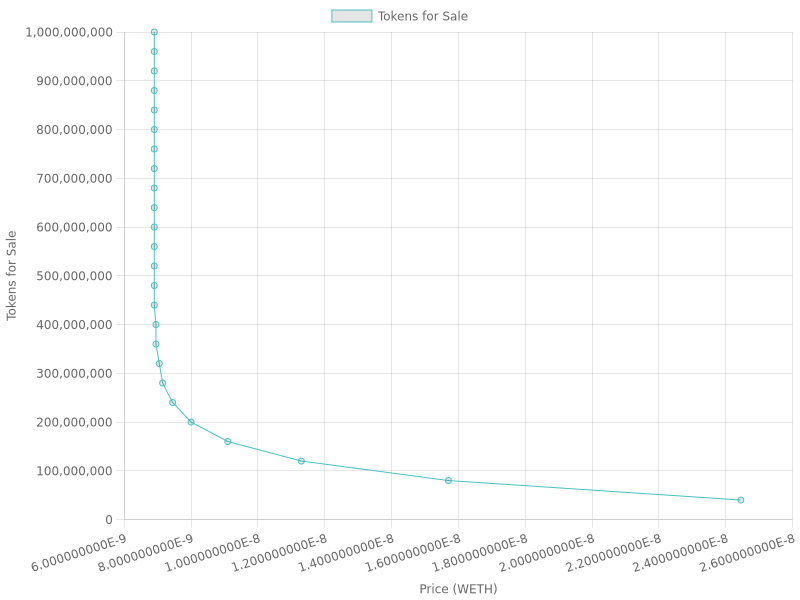
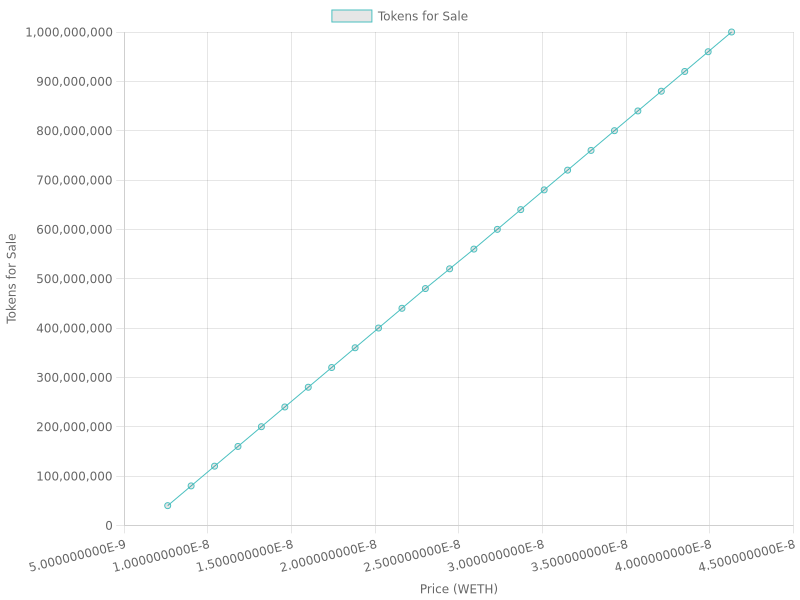
switching to new branch

diff --git a/generate-recurring-orders/src/generateOrders.ts b/generate-recurring-orders/src/generateOrders.ts
@@ -1,65 +1,59 @@
 import * as fs from 'fs';
+import * as path from 'path';
 
-interface OrderRange {
-  bottomRange: {
-    low: number;
-    high: number;
-  };
-  topRange: {
-    low: number;
-    high: number;
-  };
+// Define types for orders
+interface Order {
+  bottomRangeLow: number;
+  bottomRangeHigh: number;
+  topRangeLow: number;
+  topRangeHigh: number;
   tokens: number;
 }
 
-function generateRecurringOrders(startPrice: number, endPrice: number, totalTokens: number, numOrders: number): OrderRange[] {
-  const orders: OrderRange[] = [];
+// Improved function to generate recurring orders
+function generateRecurringOrders(startPrice: number, endPrice: number, totalTokens: number, numOrders: number): Order[] {
+  const orders: Order[] = [];
   const tokensPerOrder = totalTokens / numOrders;
 
   function createOrderRanges(low: number, high: number, remainingOrders: number): void {
     if (remainingOrders === 0) return;
 
-    const mid = (low + high) / 2;
+    const mid = (high + low) / 2;
 
-    // Create the order for the current range
     orders.push({
-      bottomRange: {
-        low: parseFloat(low.toFixed(10)),
-        high: parseFloat(mid.toFixed(10)),
-      },
-      topRange: {
-        low: parseFloat(mid.toFixed(10)),
-        high: parseFloat(high.toFixed(10)),
-      },
+      bottomRangeLow: parseFloat(low.toFixed(10)),
+      bottomRangeHigh: parseFloat(mid.toFixed(10)),
+      topRangeLow: parseFloat(mid.toFixed(10)),
+      topRangeHigh: parseFloat(high.toFixed(10)),
       tokens: tokensPerOrder,
     });
 
-    // Recursively create further orders if there are orders left
     createOrderRanges(low, mid, remainingOrders - 1);
     createOrderRanges(mid, high, remainingOrders - 1);
   }
 
   createOrderRanges(startPrice, endPrice, numOrders);
 
-  // Ensure we only return the requested number of orders
   return orders.slice(0, numOrders);
 }
 
 // Example usage
-const startPrice = 0.0000000069;
-const endPrice = 0.000000042;
+const startPrice = 0.0000000042;
+  const endPrice = 0.000000069;
 const totalTokens = 1000000000; // 1 billion tokens
-const numOrders = 25; // Reduced number of orders
+const numOrders = 25;
 const orders = generateRecurringOrders(startPrice, endPrice, totalTokens, numOrders);
 
 // Generate CSV content
 const csvContent = orders.map(order => {
-  return `${order.bottomRange.low.toFixed(10)},${order.bottomRange.high.toFixed(10)},${order.topRange.low.toFixed(10)},${order.topRange.high.toFixed(10)},${order.tokens}`;
+  return `${order.bottomRangeLow.toFixed(10)},${order.bottomRangeHigh.toFixed(10)},${order.topRangeLow.toFixed(10)},${order.topRangeHigh.toFixed(10)},${order.tokens}`;
 }).join('\n');
 
 const header = "Bottom Range Low,Bottom Range High,Top Range Low,Top Range High,Tokens\n";
 const csv = header + csvContent;
 
-fs.writeFileSync('src/orders.csv', csv);
+const outputPath = path.join(__dirname, 'orders.csv');
+fs.writeFileSync(outputPath, csv);
 
-console.log('Orders CSV file has been generated.');
+console.log(`Orders CSV file has been generated at ${outputPath}`);
+

diff --git a/generate-recurring-orders/src/generateDepthChart.ts b/generate-recurring-orders/src/generateDepthChart.ts
@@ -4,15 +4,6 @@ import { ChartJSNodeCanvas } from 'chartjs-node-canvas';
 import { ChartConfiguration } from 'chart.js';
 import readline from 'readline';
 
-// Define types for orders
-interface Order {
-  bottomRangeLow: number;
-  bottomRangeHigh: number;
-  topRangeLow: number;
-  topRangeHigh: number;
-  tokens: number;
-}
-
 // Prepare data for the depth chart
 const tmpFilePath = path.join(__dirname, 'tmp_data.jsonl'); // Temporary file to store intermediate results
 const tmpFileStream = fs.createWriteStream(tmpFilePath);
@@ -31,15 +22,8 @@ rl.on('line', (line) => {
     return;
   }
   const values = line.split(',').map(value => parseFloat(value));
-  const order: Order = {
-    bottomRangeLow: values[0],
-    bottomRangeHigh: values[1],
-    topRangeLow: values[2],
-    topRangeHigh: values[3],
-    tokens: values[4]
-  };
-  const midPrice = (order.bottomRangeLow + order.topRangeHigh) / 2;
-  cumulativeTokens += order.tokens;
+  const midPrice = (values[0] + values[3]) / 2;
+  cumulativeTokens += values[4];
   tmpFileStream.write(JSON.stringify({ price: midPrice, tokens: cumulativeTokens }) + '\n');
 });
 
@@ -100,9 +84,13 @@ rl.on('close', async () => {
     };
 
     try {
+      // Generate a unique filename using a timestamp
+      const timestamp = new Date().toISOString().replace(/[:.]/g, '-');
+      const imagePath = path.join(__dirname, `depth_chart_${timestamp}.png`);
+
       const imageBuffer = await chartJSNodeCanvas.renderToBuffer(configuration);
-      fs.writeFileSync(path.join(__dirname, 'depth_chart.png'), imageBuffer);
-      console.log('Depth chart has been generated.');
+      fs.writeFileSync(imagePath, imageBuffer);
+      console.log(`Depth chart has been generated: ${imagePath}`);
     } catch (error) {
       console.error('Error generating depth chart:', error);
     } finally {
